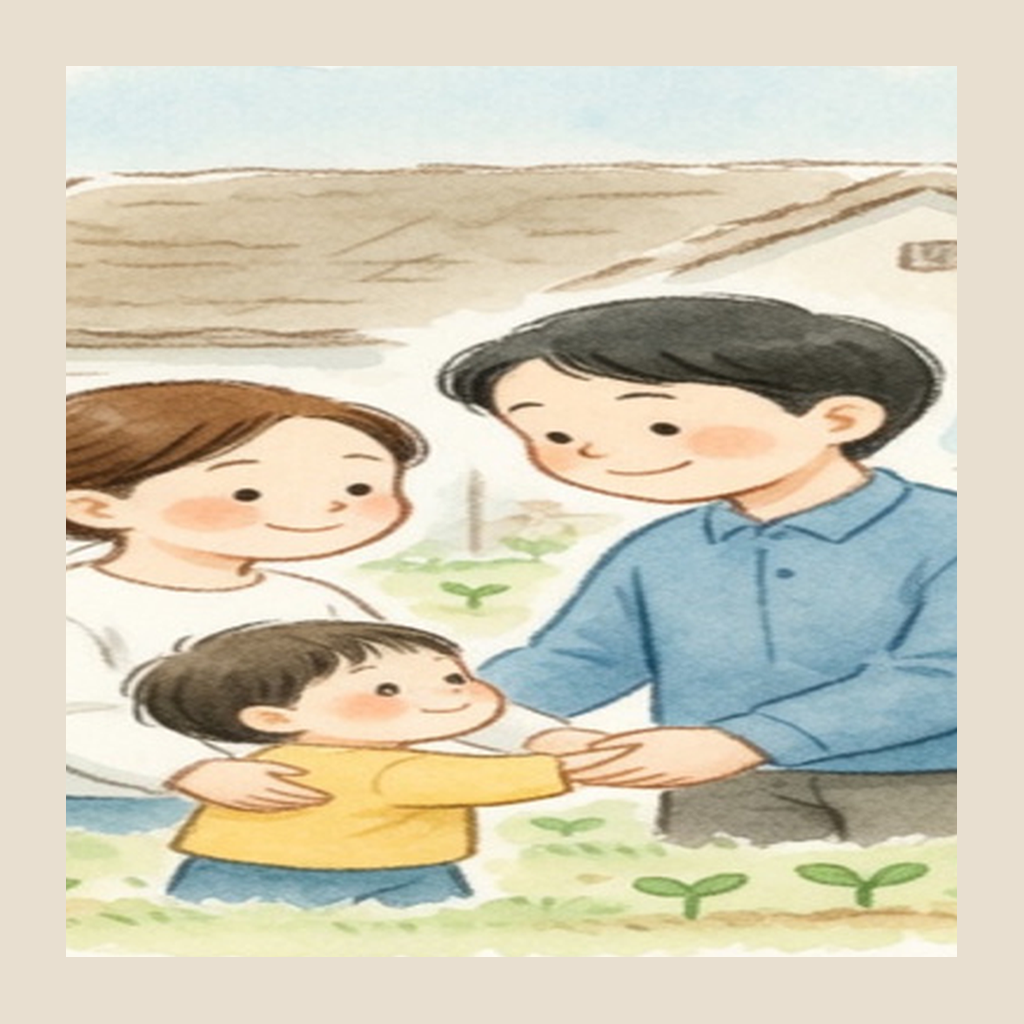
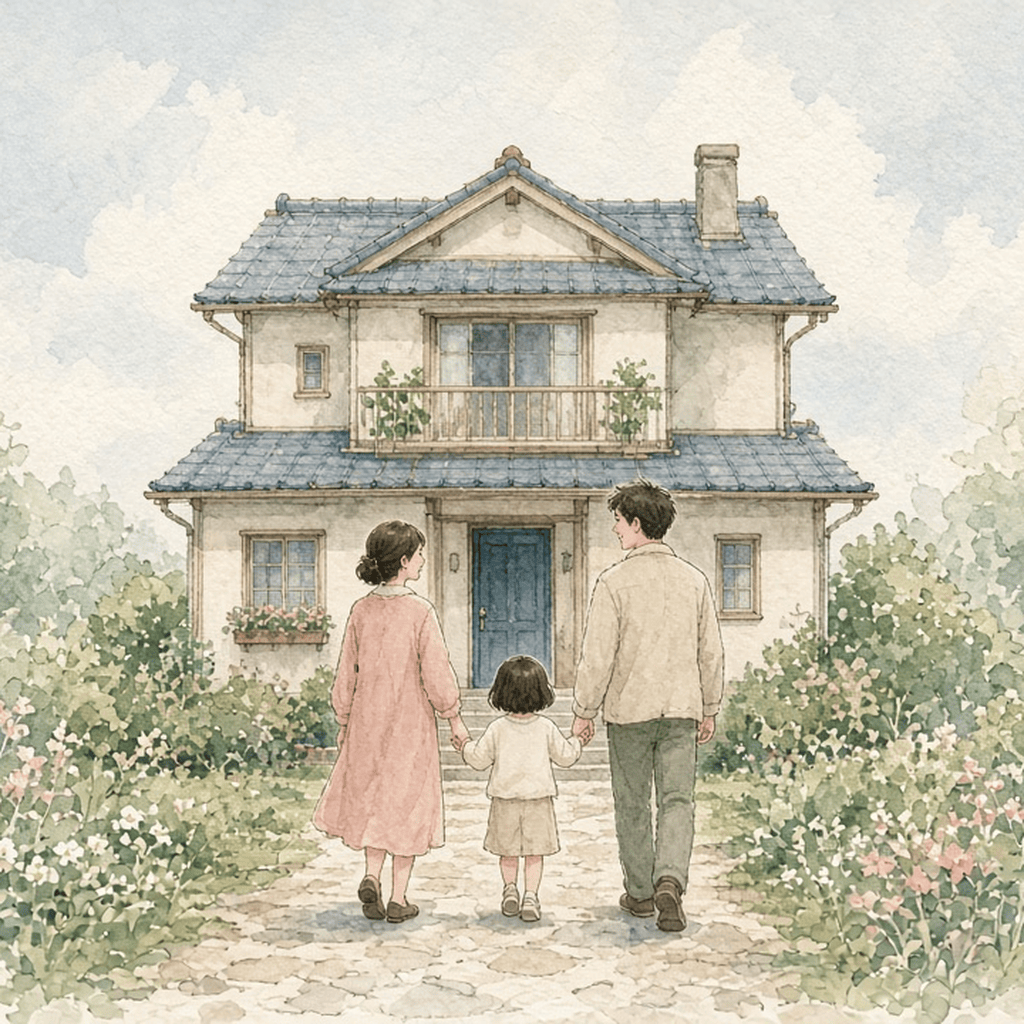
art: redraw 24 roadmap illustrations (fix edge crops) and fill frame edge to edge
- Replace 24 PNGs in public/phases with approved 1024x1024 redraws (pngquant, same names/paths)
- gen-stamp-grid.png untouched; no safe-pad band
- .illust-art: drop padding:10%/box-sizing, object-fit:cover

diff --git a/src/index.css b/src/index.css
@@ -422,7 +422,7 @@
 .illust-square.selected{border-color:#b29258;box-shadow:0 4px 16px #976b2318}
 .illust-square.complete{background:#faf8ef}
 .illust-frame{position:relative;aspect-ratio:1/1;min-height:0;width:100%;background:#e8dfd0;overflow:hidden}
-.illust-art{width:100%;height:100%;object-fit:contain;object-position:center;display:block;opacity:1;position:relative;z-index:0;box-sizing:border-box;padding:10%}
+.illust-art{width:100%;height:100%;object-fit:cover;object-position:center;display:block;opacity:1;position:relative;z-index:0}
 .illust-pads{position:absolute;inset:0;z-index:3;pointer-events:none}
 .stamp-pad{pointer-events:auto;border-radius:11px;border:2px solid rgba(15,92,84,.5);background:rgba(255,253,248,.78);backdrop-filter:blur(4px);-webkit-backdrop-filter:blur(4px);box-shadow:0 2px 8px rgba(26,46,43,.18),0 0 0 1px rgba(255,255,255,.35) inset;display:flex;flex-direction:column;align-items:center;justify-content:center;gap:1px;padding:4px 3px;-webkit-tap-highlight-color:transparent;transition:transform .12s ease,box-shadow .12s ease;touch-action:manipulation}
 .stamp-pad.corner{position:absolute;width:52px;height:52px;min-width:44px;min-height:44px}
